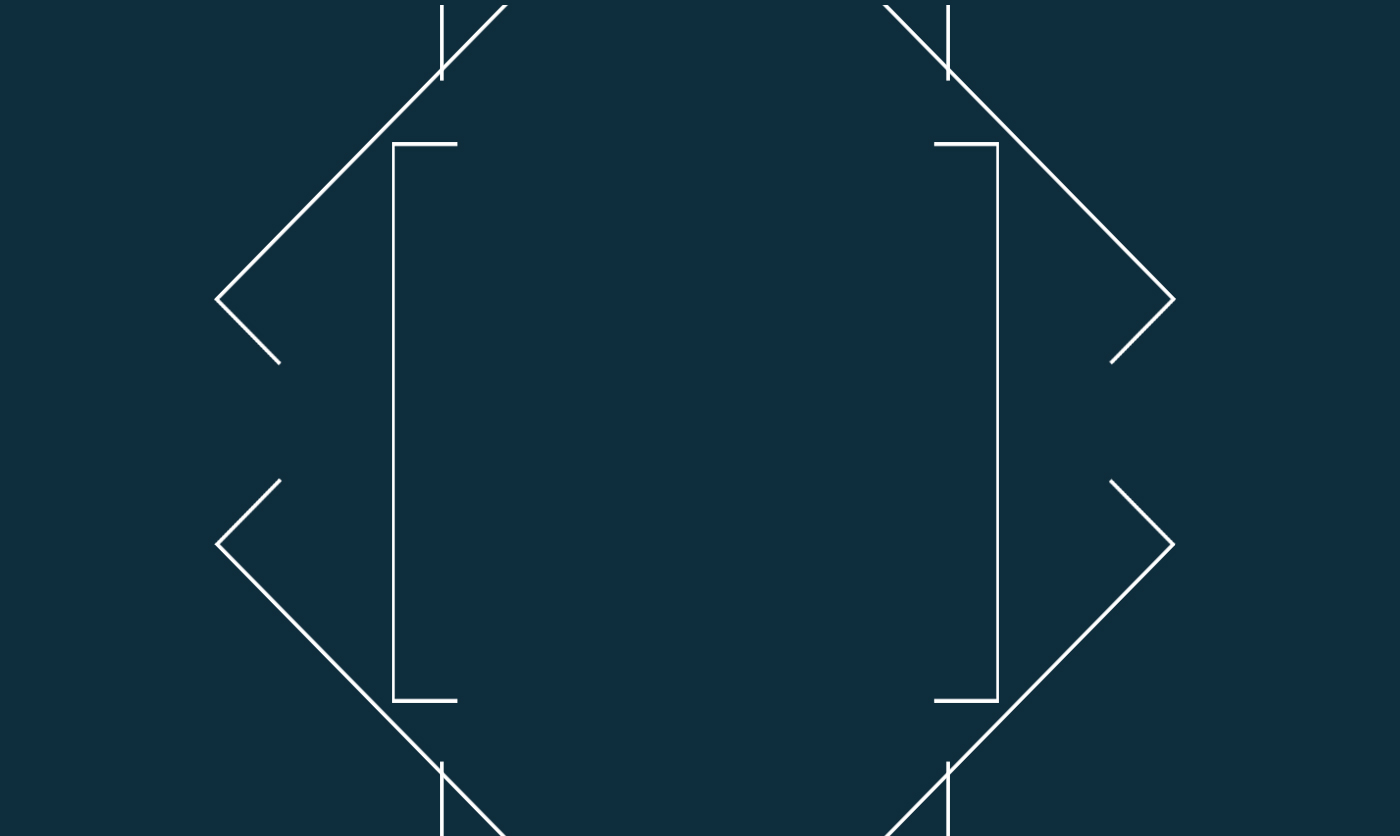
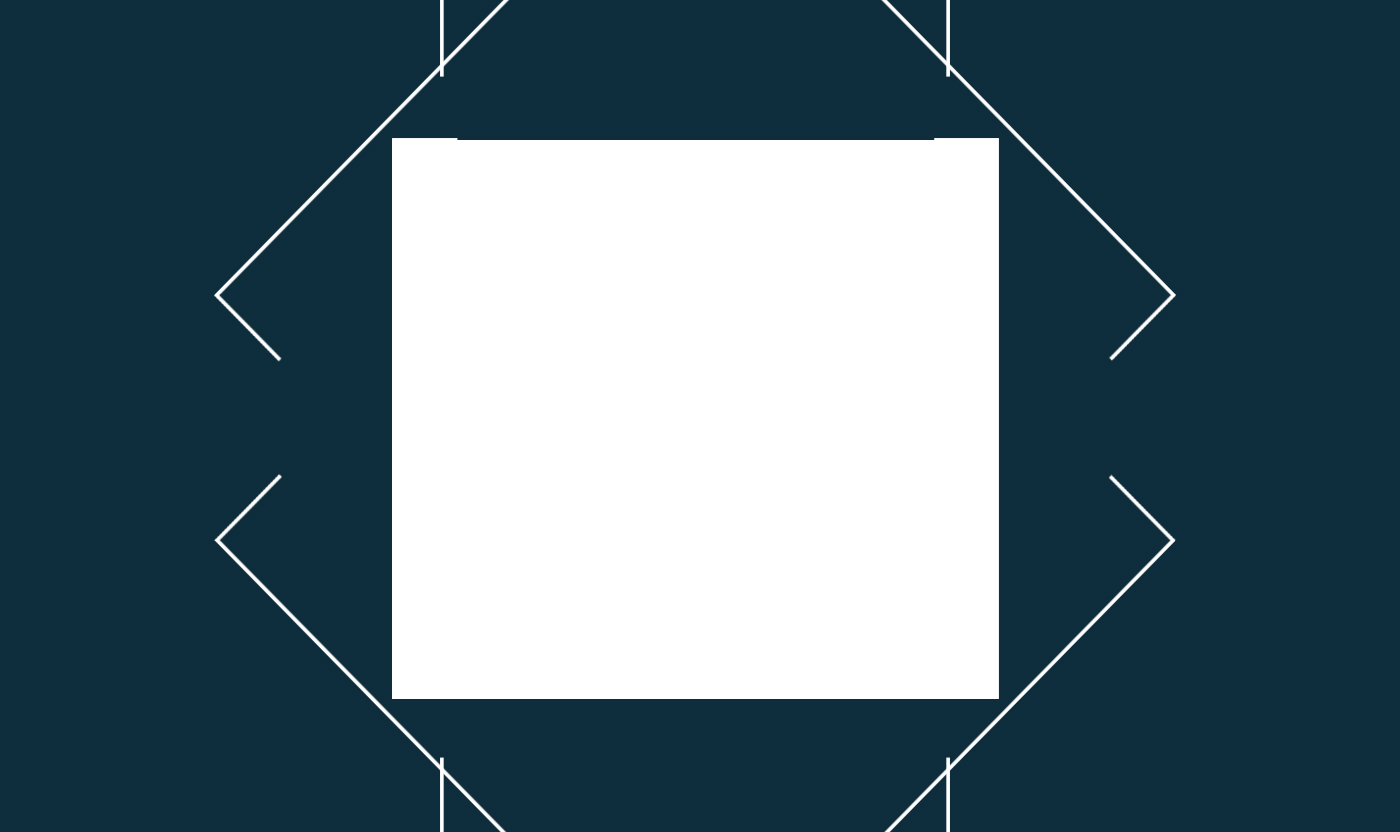
Image

diff --git a/css/Main.css b/css/Main.css
@@ -13,7 +13,7 @@ body{
 }
 
 #img1{
-    background-image: url(../MyBlog/1.jpg);
+    background-image: url(../MyBlog/First.png);
     background-color: transparent;
     background-size: 100% 100%;
     background-repeat: no-repeat;
@@ -77,8 +77,8 @@ html{
     background-color: transparent;
     background-image: url(../MyBlog/menu.png);
     background-size:contain;
-    width: 50px;
-    height: 50px;
+    width: 30px;
+    height: 30px;
     margin: 10px;
     position: fixed;
     z-index: 10;
@@ -94,5 +94,8 @@ html{
 @media screen and (max-width: 1440px) {
     #img1, img3 {
         background-attachment: scroll;
+    }
+    #nbm{
+        background-size: %;
     }
 }

diff --git a/index.html b/index.html
@@ -10,10 +10,11 @@
   <link rel="stylesheet" type="text/css" href="css/Main.css">
 </head>
 <body>
-  <!--start nav bar-->
+  <!--Start nav bar-->
   <div class="dropdown">
   <button class="btn btn-primary dropdown-toggle" id="nbm"type="button" data-toggle="dropdown">
-  <span class="caret"></span></button>
+  <!--<span class="caret"></span>-->
+  </button>
   <ul class="dropdown-menu">
     <li><a href="#">Photoshop</a></li>
     <li><a href="#">Bear</a></li>
@@ -32,7 +33,5 @@
   <!--End images-->
    
 
-  <span class="FPtext"><h1>WELCOME <br>TO<br> MY WEB</h1></span>
-  <!--Text-->
 </body>
 </html>
